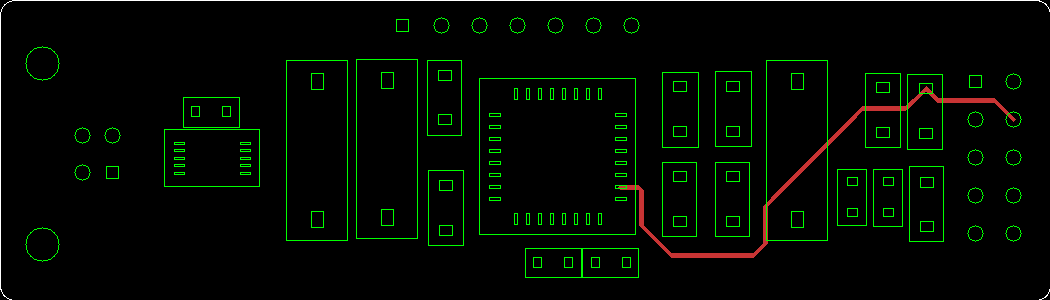
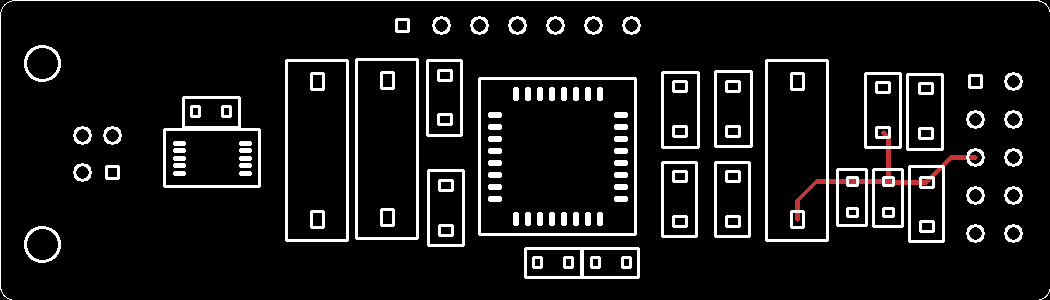
Everything seems to be working fine

diff --git a/kicad_examples/CAOE_F38C_U2S/bom/ibom.html b/kicad_examples/CAOE_F38C_U2S/bom/ibom.html
@@ -1884,7 +1884,7 @@ function drawFootprints(canvas, layer, scalefactor, highlight) {
     padHole: style.getPropertyValue('--pad-hole-color'),
     outline: style.getPropertyValue('--pin1-outline-color'),
   }
-
+  var fprints = [];
   for (var i = 0; i < pcbdata.footprints.length; i++) {
     var mod = pcbdata.footprints[i];
     var outline = settings.renderDnpOutline && pcbdata.bom.skipped.includes(i);
@@ -1903,9 +1903,15 @@ function drawFootprints(canvas, layer, scalefactor, highlight) {
       }
     }
     if( h || d || !highlight) {
+      fprints.push(mod.ref)
       drawFootprint(ctx, layer, scalefactor, mod, colors, highlight, outline);
     }
   }
+
+  // console.log(fprints)
+  // $.post( "http://127.0.0.1:5000/postbounding", {
+  //     javascript_data: JSON.stringify(fprints)
+  // });
 }
 
 function drawBgLayer(layername, canvas, layer, scalefactor, edgeColor, polygonColor, textColor) {

diff --git a/server/draw.py b/server/draw.py
@@ -151,10 +151,10 @@ def draw_bounding_box(pcb_data, canvas, ratio, comp_list):
 		start = rotate(pos, start, angle)
 		stop = rotate(pos, stop, angle)
 		
-		cv.line(canvas, start, p1, (0, 255, 0))
-		cv.line(canvas, start, p2, (0, 255, 0))
-		cv.line(canvas, stop, p1, (0, 255, 0))
-		cv.line(canvas, stop, p2, (0, 255, 0))
+		cv.line(canvas, start, p1, (255, 255, 255), 2)
+		cv.line(canvas, start, p2, (255, 255, 255), 2)
+		cv.line(canvas, stop, p1, (255, 255, 255), 2)
+		cv.line(canvas, stop, p2, (255, 255, 255), 2)
 
 def draw_pads(pcb_data, canvas, ratio, comp_list):
 	# Get base offset
@@ -173,7 +173,7 @@ def draw_pads(pcb_data, canvas, ratio, comp_list):
 			size[1] = int(size[1] * ratio / 2)
 			
 			if p["shape"] == "circle" or p["shape"] == "oval":
-				cv.circle(canvas, pos, int(size[0] / 1.5), (0, 255, 0))
+				cv.circle(canvas, pos, int(size[0] / 1.5), (255, 255, 255), 2)
 			elif p["shape"] == "rect" or p["shape"] == "roundrect":
 				start = (int(pos[0] - size[0] / 2), int(pos[1] - size[1] / 2))
 				stop = (int(pos[0] + size[0] / 2), int(pos[1] + size[1] / 2))
@@ -182,10 +182,10 @@ def draw_pads(pcb_data, canvas, ratio, comp_list):
 				p2 = rotate(pos, (stop[0], start[1]), angle)
 				start = rotate(pos, start, angle)
 				stop = rotate(pos, stop, angle)
-				cv.line(canvas, start, p1, (0, 255, 0))
-				cv.line(canvas, start, p2, (0, 255, 0))
-				cv.line(canvas, stop, p1, (0, 255, 0))
-				cv.line(canvas, stop, p2, (0, 255, 0))
+				cv.line(canvas, start, p1, (255, 255, 255), 2)
+				cv.line(canvas, start, p2, (255, 255, 255), 2)
+				cv.line(canvas, stop, p1, (255, 255, 255), 2)
+				cv.line(canvas, stop, p2, (255, 255, 255), 2)
 				
 
 

diff --git a/server/both.py b/server/both.py
@@ -74,6 +74,15 @@ def get_net_data():
 	flag.flag_redraw = True
 	return "200"
 
+# @app.route('/postbounding', methods = ['POST'])
+# def get_bounding_data():
+# 	global jsdata
+# 	rcv_data = request.form['javascript_data']
+# 	# print(rcv_data)
+# 	draw.draw_pcb(jsdata, [], [rcv_data], 15)
+# 	flag.flag_redraw = True
+# 	return "200"
+
 if __name__ == "__main__":
 	app.run()
 
